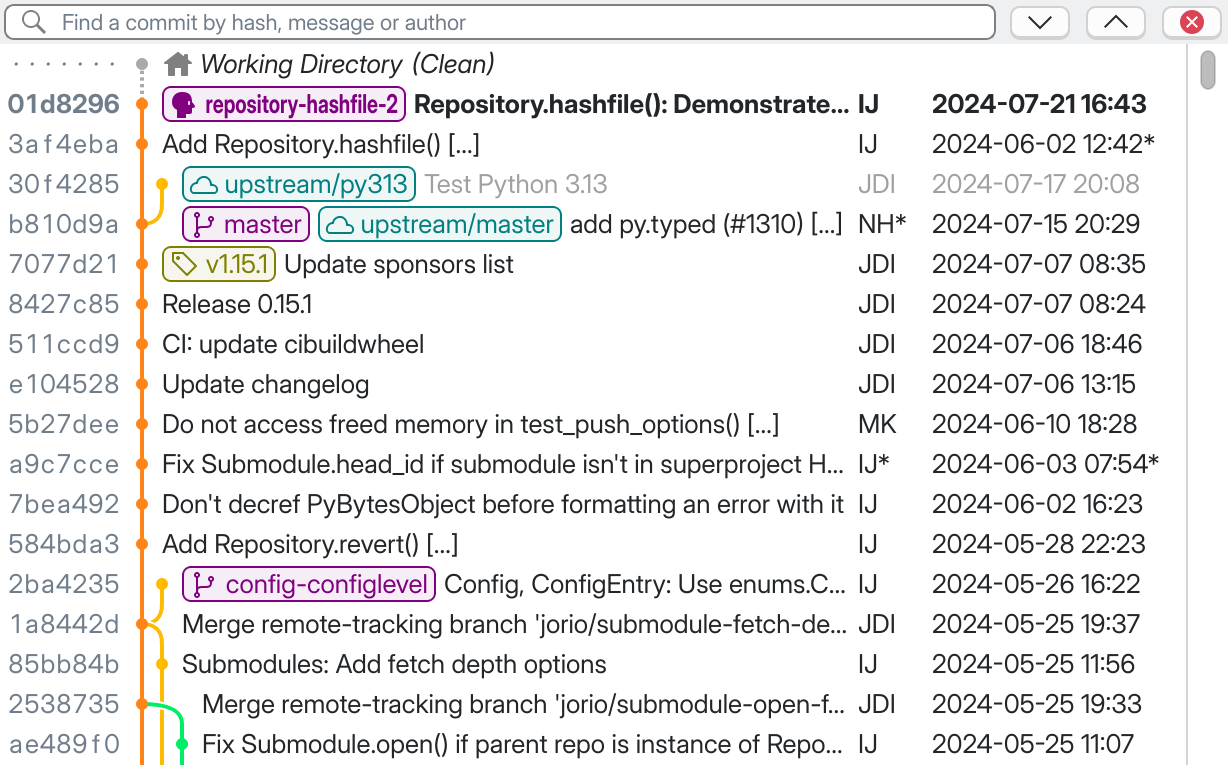
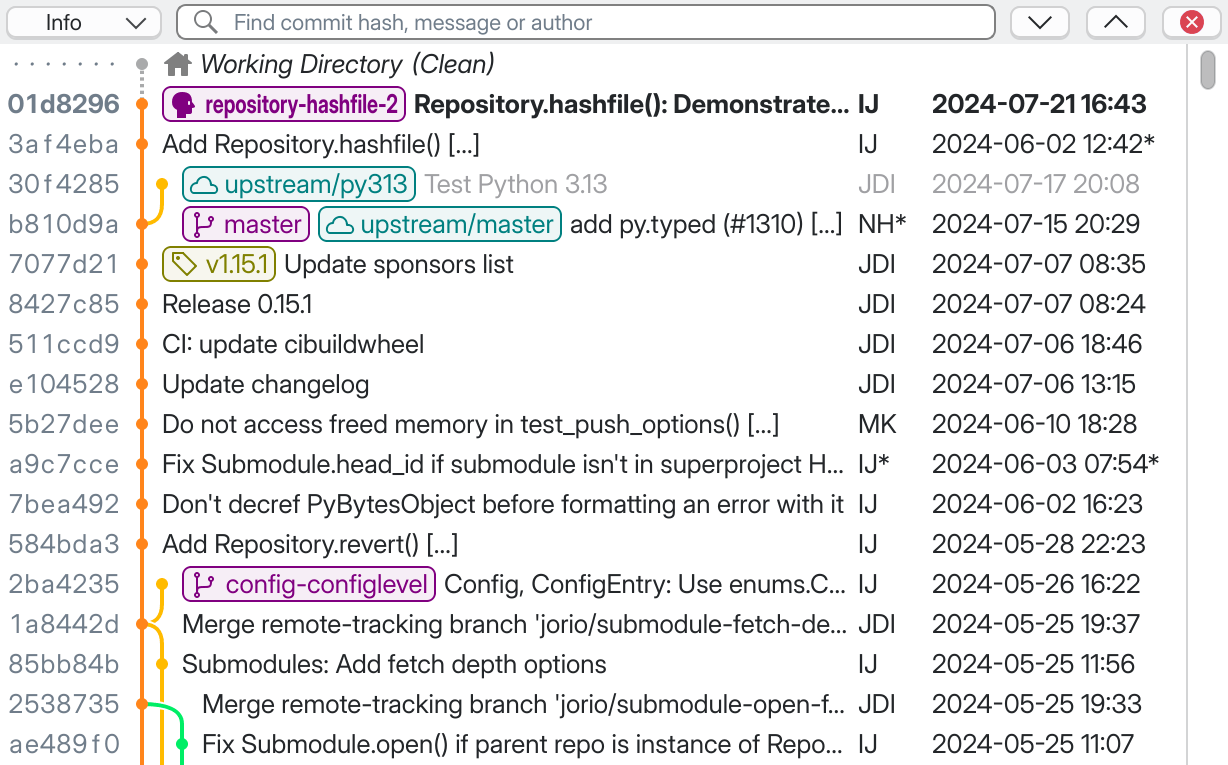
Document search scopes

Changed region(s): [[0.0, 0.0, 0.4023, 0.0601], [0.4332, 0.0, 0.4642, 0.0601]]

diff --git a/guide/history.rst b/guide/history.rst
@@ -82,15 +82,26 @@ Start typing, and a yellow highlight will appear in matching commits.
 
     Searching for a word in the Commit History.
 
-You can search for:
+.. rubric:: "Info" search scope
 
-- The first couple characters of a commit's **SHA-1 hash**.
-- Any part of a **commit message**. If the search term is found beyond the first line of the message, the ellipsis (|ellip|) will be highlighted in yellow.
-- A commit's **author name**.
+The search scope is set to **Info** by default. The Info scope lets you find a piece of text in a commit's metadata:
+
+- The first couple characters of the commit's **SHA-1 hash**.
+- Any part of the **commit message**. If the term occurs beyond the first line of the message, the ellipsis (|ellip|) is highlighted in yellow.
+- The commit's **author name**.
+
+.. rubric:: "Path" search scope
+
+:gfversion:`New in v1.8.0:` Changing the search scope to **Path** lets you search for commits that touch specific files. Wildcards are supported. For example, :code:`lang/*.mo` highlights all commits that modify `.mo` files in the `lang` directory.
+
+.. figure:: /assets/screens/searchpath.png
+
+    Searching for a path in the Commit History.
 
 .. tip::
     | The :kbd:`/` key also works for bringing up the Search Bar.
     | Press :kbd:`F3` or :kbd:`Shift F3` to find the next or previous occurrence of the search term.
+    | Press :kbd:`Alt I` or :kbd:`Alt P` to switch to the "Info" or "Path" scopes, respectively.
     | Press :kbd:`Esc` to close the Search Bar.
 
 .. note::
